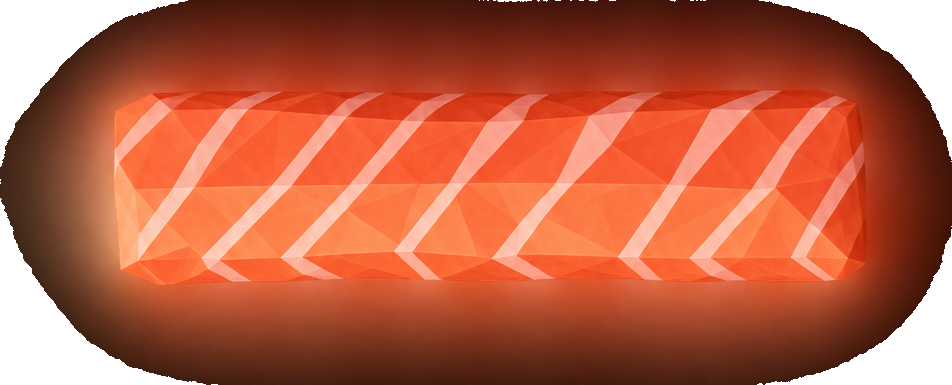
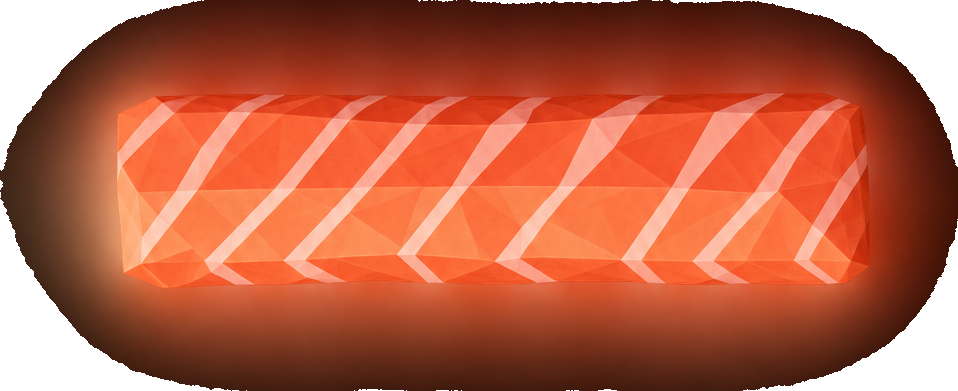
strips fill the row again, cucumber laid horizontal

diff --git a/play/board.js b/play/board.js
@@ -47,7 +47,7 @@
   loadImg('maki', ASSET + 'assets/board/maki-target.png');
   loadImg('base', ASSET + 'assets/board/maki-base.png');
   ['salmon','cucumber','tuna'].forEach((k) => {
-    loadImg(k, ASSET + 'assets/board/' + k + '.png?v=5');
+    loadImg(k, ASSET + 'assets/board/' + k + '.png?v=6');
     loadImg('wedge-' + k, ASSET + 'assets/board/wedge-' + k + '.png');
   });
 
@@ -466,9 +466,7 @@
         const im = imgs[p.kind];
         ctx.imageSmoothingEnabled = true;
         ctx.imageSmoothingQuality = 'high';
-        const scale = Math.max(dw / im.width, dh / im.height);
-        const iw = im.width * scale, ih = im.height * scale;
-        ctx.drawImage(im, dx + (dw - iw) / 2, dy + (dh - ih) / 2, iw, ih);
+        ctx.drawImage(im, dx, dy, dw, dh);
       } else {
         const g = ctx.createLinearGradient(dx, dy, dx + dw, dy + dh);
         g.addColorStop(0, spec.fill[1]);

diff --git a/play/index.html b/play/index.html
@@ -7,4 +7,4 @@
   canvas{display:block;width:100%;height:100%;touch-action:none}
 </style>
 <canvas id="c"></canvas>
-<script src="board.js?v=36"></script>
+<script src="board.js?v=37"></script>
